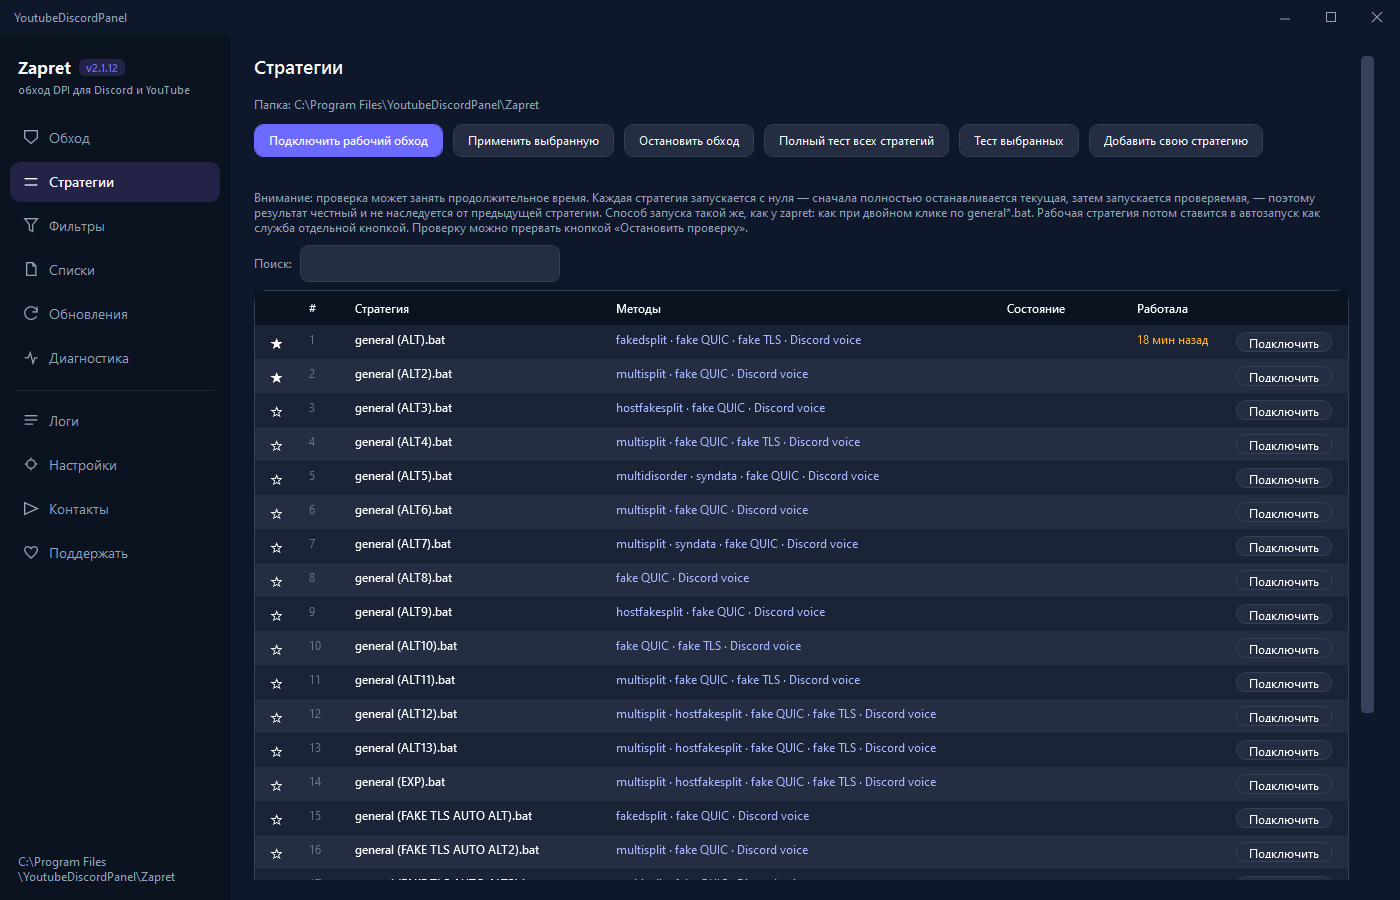
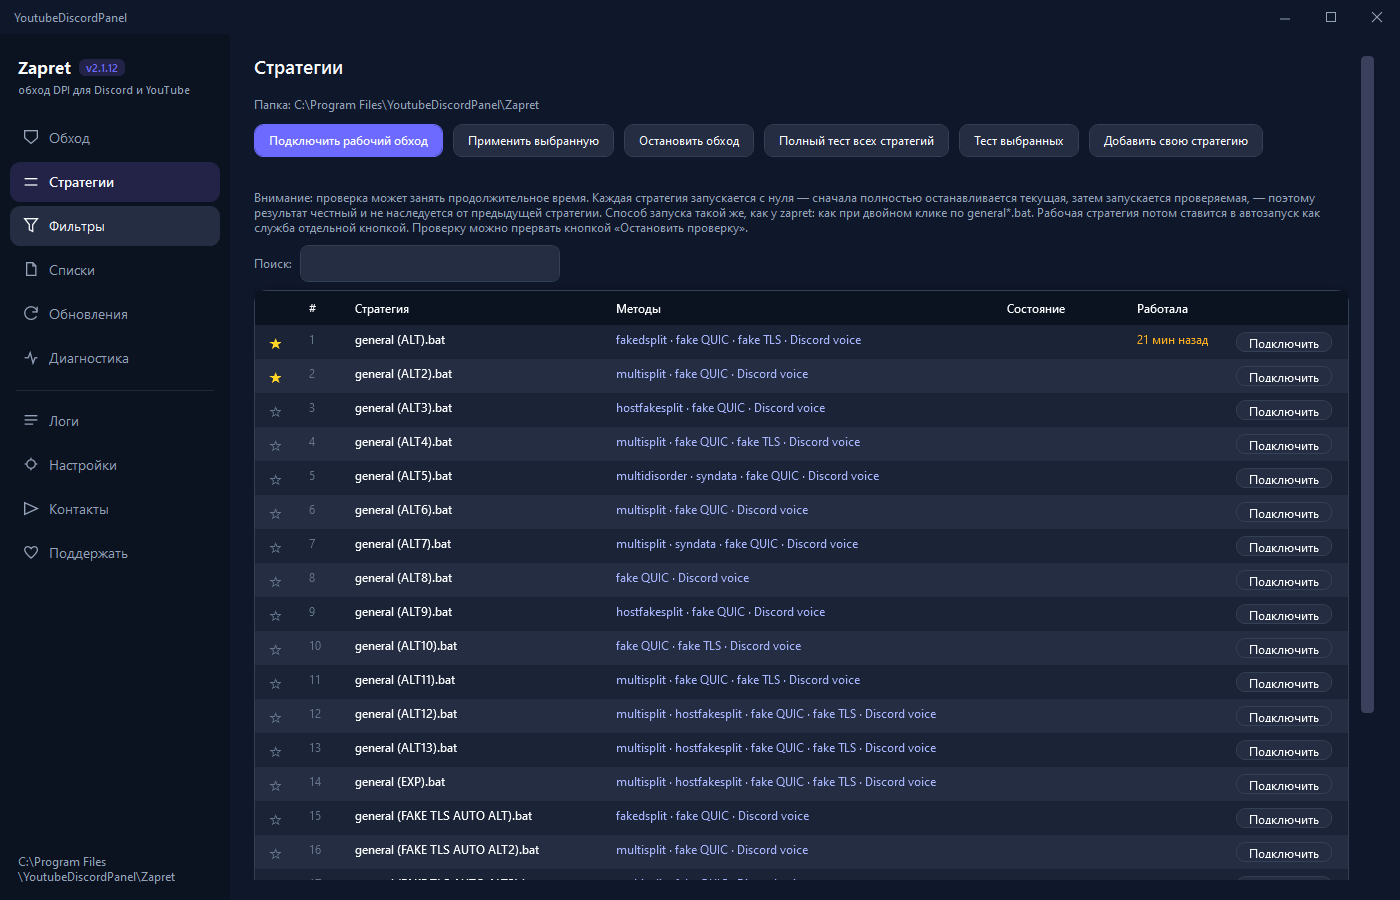
fix(strategies): gold pin star — bind glyph colour to the button, not the grid
A plain ContentPresenter in the star button inherited the DataGrid foreground, so
a pinned strategy rendered white instead of gold. The glyph is now an explicit
TextBlock whose TextElement.Foreground follows the button.

Bump 2.1.12 -> 2.1.13.

Changed region(s): [[0.0, 0.2178, 0.1536, 0.28]]

diff --git a/wpf/Pages/StrategiesPage.xaml b/wpf/Pages/StrategiesPage.xaml
@@ -278,7 +278,16 @@
                                                     <ControlTemplate TargetType="Button">
                                                         <Border x:Name="Bg" Background="{TemplateBinding Background}"
                                                                 CornerRadius="6" Padding="3,0">
-                                                            <ContentPresenter HorizontalAlignment="Center" VerticalAlignment="Center" />
+                                                            <!-- Glyph as an explicit TextBlock whose
+                                                                 TextElement.Foreground follows the
+                                                                 button: a plain ContentPresenter
+                                                                 inherits the DataGrid colour instead
+                                                                 and rendered the pinned star white. -->
+                                                            <TextBlock Text="{TemplateBinding Content}"
+                                                                       FontFamily="{TemplateBinding FontFamily}"
+                                                                       FontSize="{TemplateBinding FontSize}"
+                                                                       TextElement.Foreground="{TemplateBinding Foreground}"
+                                                                       HorizontalAlignment="Center" VerticalAlignment="Center" />
                                                         </Border>
                                                         <ControlTemplate.Triggers>
                                                             <Trigger Property="IsMouseOver" Value="True">

diff --git a/.github/release-notes/v2.1.13.md b/.github/release-notes/v2.1.13.md
@@ -1,0 +1,5 @@
+## Что нового в 2.1.13
+
+Небольшой хотфикс: в 2.1.12 звёздочка закрепления стратегии в списке отображалась белым вместо золотого. Цвет глифа теперь берётся напрямую от кнопки, а не наследуется от таблицы — закреплённые стратегии отмечены золотой ★.
+
+Полный список изменений: https://github.com/Therealwh/ZapretYoutubeDiscordPanel/compare/v2.1.12...v2.1.13
